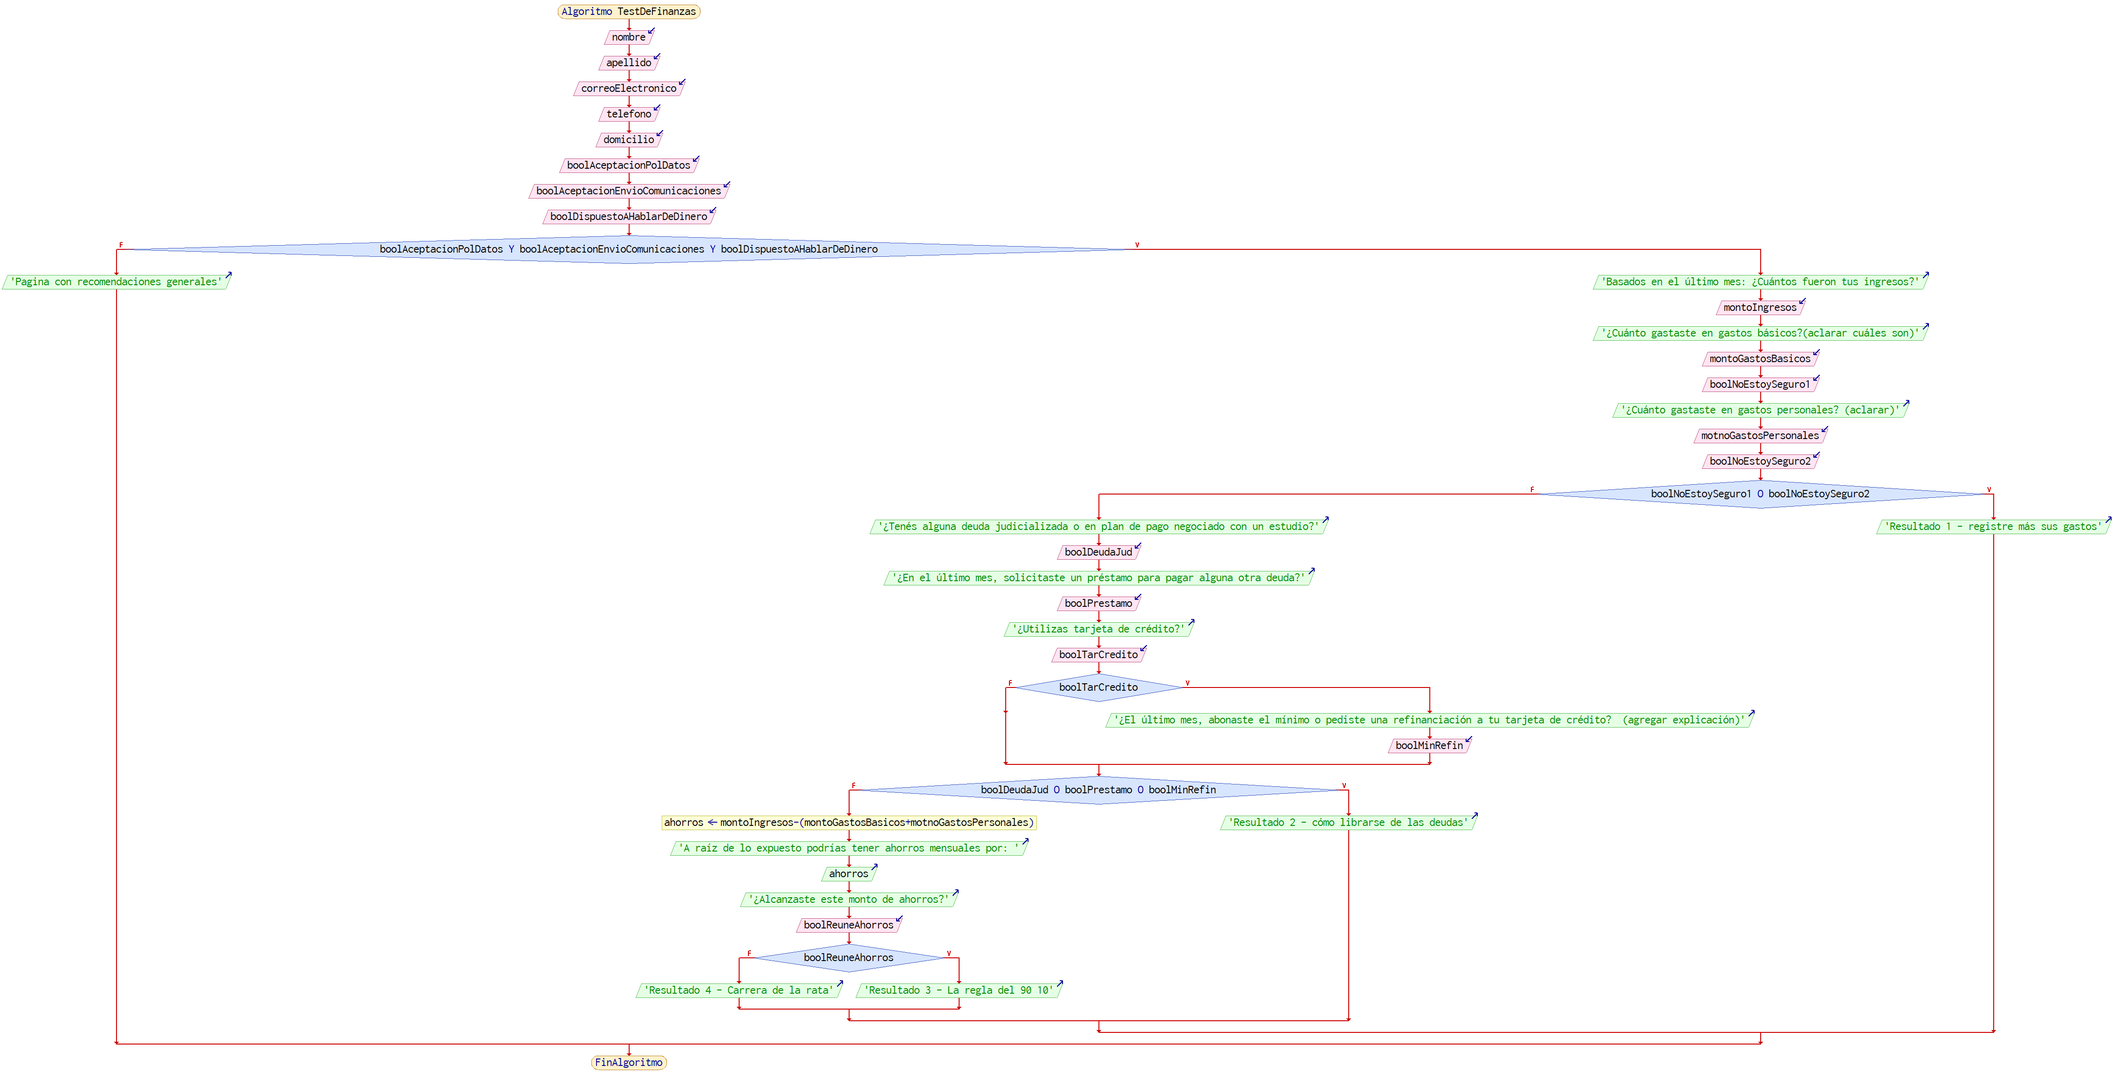
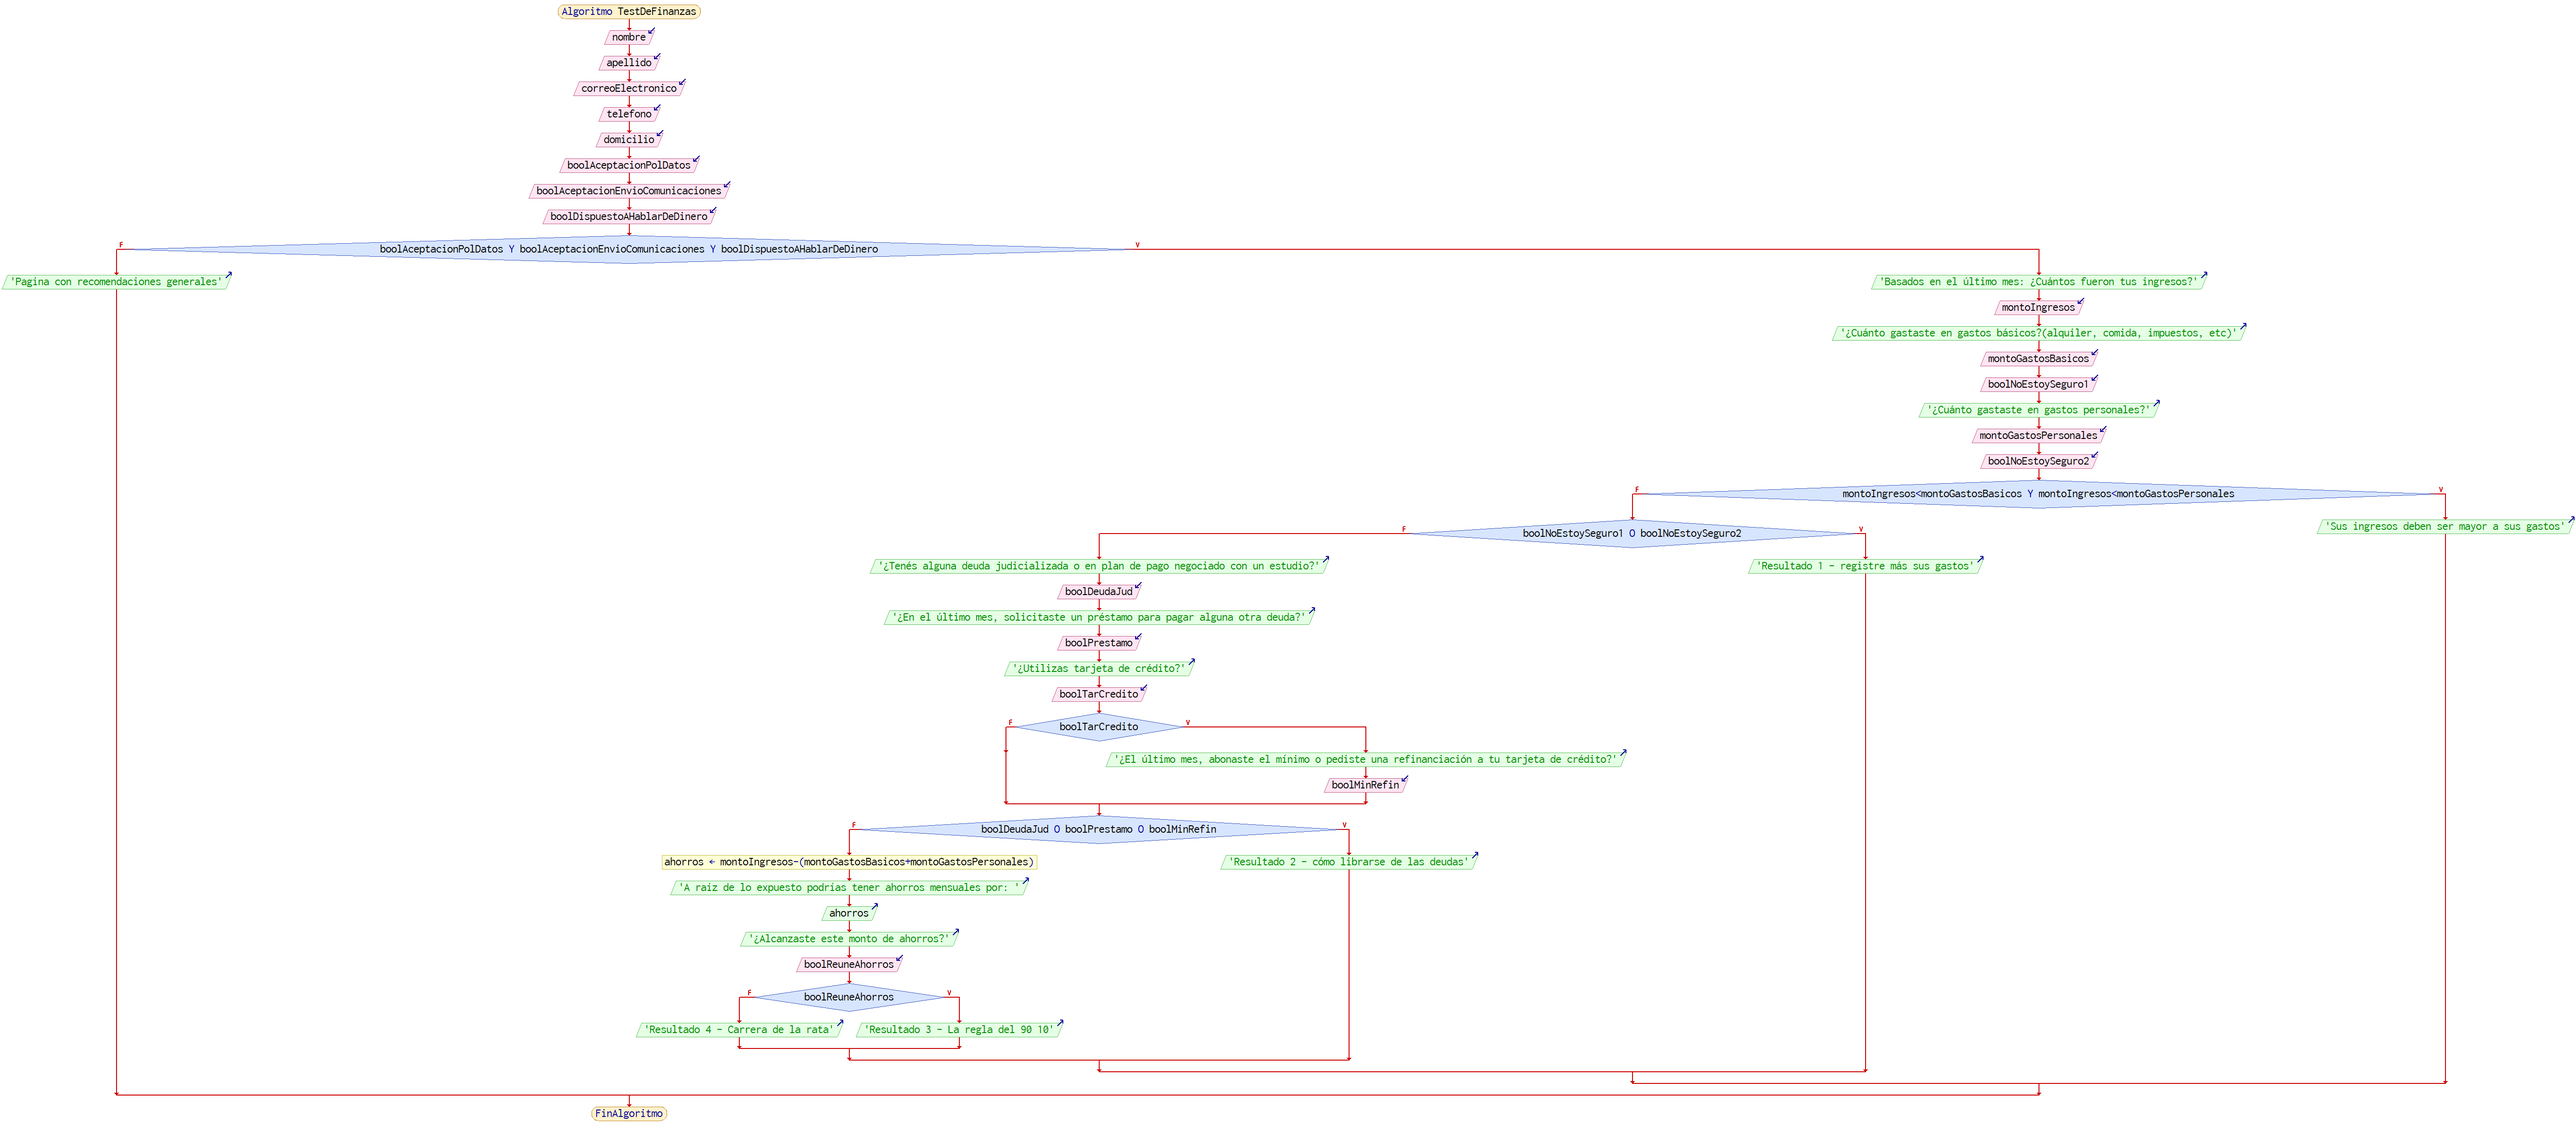
se modificaron diagramas de flujo

diff --git a/js/testScript.js b/js/testScript.js
@@ -67,7 +67,7 @@ function conoceGastos(){
         window.alert("Debe indicar un monto o indicar que no está seguro");
         return
     } else if ((Number(monto0.value)<(Number(monto1.value)+Number(monto2.value)))){
-        window.alert("La suma de los gastos deben ser menores o iguales a los ingresos. Recuerde que le consultamos sólo lo que gasto de lo que percibió en el último mes.");
+        window.alert("La suma de los gastos deben ser menores o iguales a los ingresos. Recuerde que le consultamos sólo lo que gastó de lo que percibió en el último mes.");
         return
     }
     ocultarDiv("ultimoMes");
